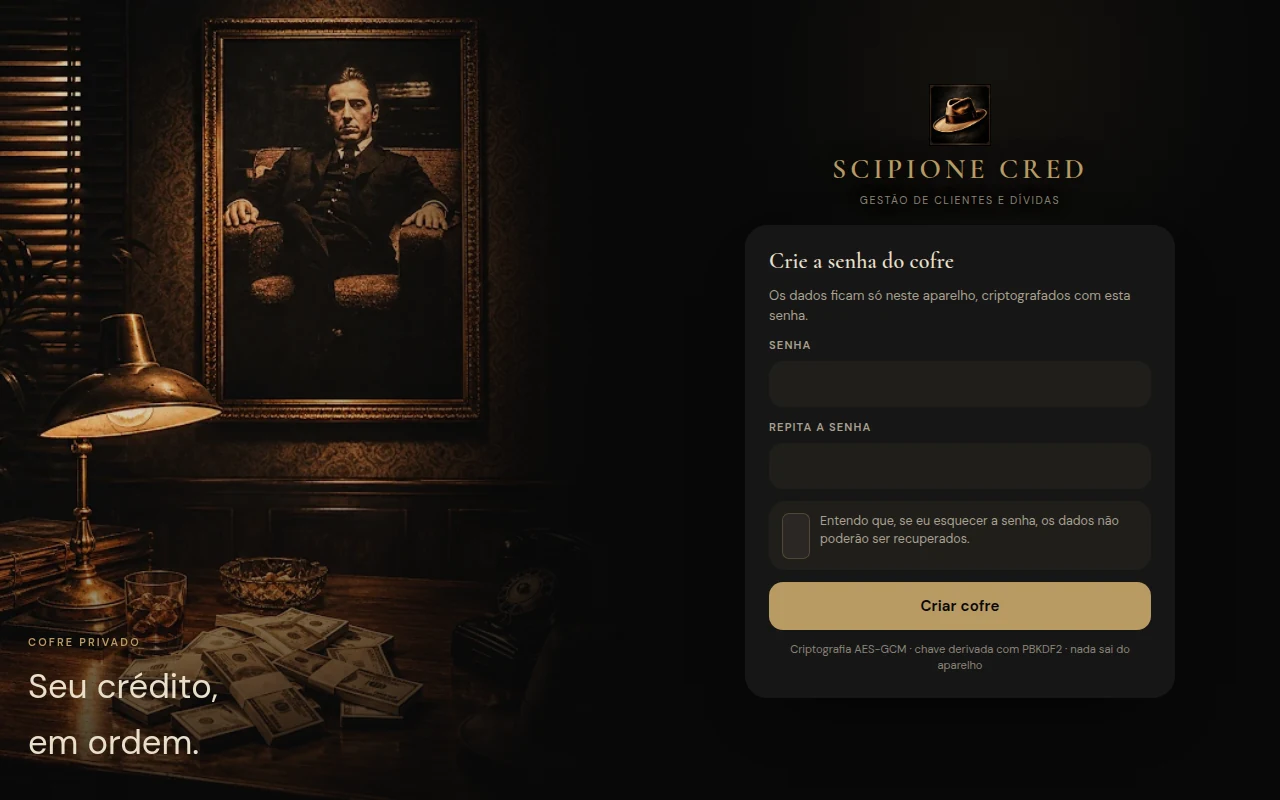
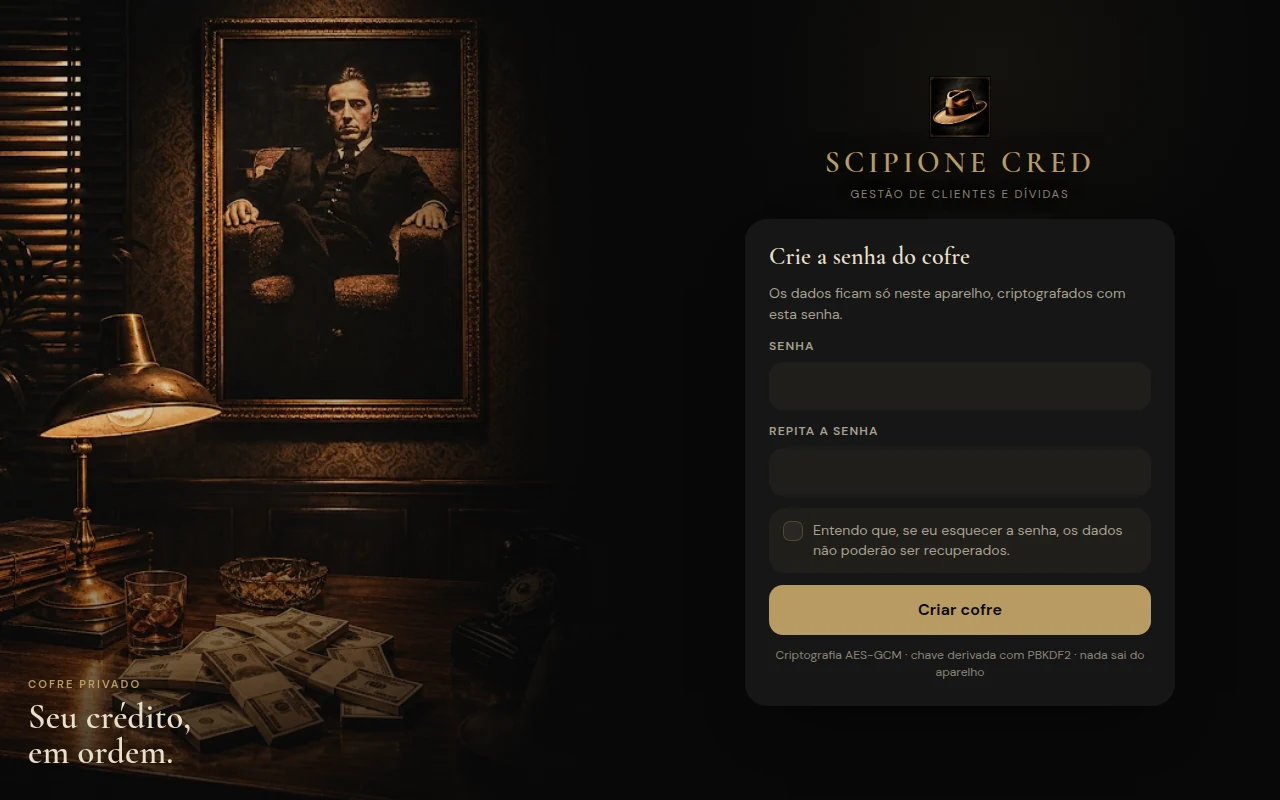
Increase login typography and fix checkbox proportions

diff --git a/css/ui.css b/css/ui.css
@@ -302,14 +302,15 @@ body:not(.shell) main>*{width:100%;max-width:420px}
 .brand h1{font-size:clamp(1.55rem, 1.1rem + 1.4vw, 1.85rem);letter-spacing:.15em;color:var(--gold);text-transform:uppercase;line-height:1.05}
 .brand .tag{font-size:.64rem;letter-spacing:.15em;text-transform:uppercase;color:var(--faint);margin:0;line-height:1.4}
 .auth{display:grid;gap:13px;padding:clamp(18px,3.5vw,26px)}
-.auth h2{font-size:1.35rem;margin:0;line-height:1.15}
-.auth>p.muted{font-size:.82rem;line-height:1.5;margin:0}
-.auth .primary{width:100%;min-height:48px;margin-top:0}
-.auth .foot{font-size:.7rem;color:var(--faint);text-align:center;line-height:1.4;margin:0}
+.auth h2{font-size:1.45rem;margin:0;line-height:1.15}
+.auth>p.muted{font-size:.88rem;line-height:1.5;margin:0}
+.auth .primary{width:100%;min-height:50px;margin-top:0;font-size:1rem}
+.auth .foot{font-size:.76rem;color:var(--faint);text-align:center;line-height:1.45;margin:0}
 .auth .field{gap:6px}
-.auth .field>label:not(.file-pick){font-size:.7rem;letter-spacing:.1em}
-.auth input{min-height:46px;padding:10px 14px;font-size:.95rem}
-.auth .check{padding:11px 13px;font-size:.78rem;line-height:1.45;gap:10px}
+.auth .field>label:not(.file-pick){font-size:.76rem;letter-spacing:.09em}
+.auth input:not([type=checkbox]){min-height:48px;padding:10px 14px;font-size:1rem}
+.auth .check{padding:12px 14px;font-size:.88rem;line-height:1.45;gap:10px}
+.auth .check input{width:20px;height:20px;min-height:0;padding:0;margin-top:1px;font-size:0}
 body:not(.shell) main>.card.auth{max-width:420px}
 /* ---------- Login com cena ---------- */
 body.authing{overflow:hidden}
@@ -326,13 +327,15 @@ body.authing main>*{width:auto;max-width:none}
 .auth-visual::after{content:"";position:absolute;inset:0;
   background:linear-gradient(180deg,rgba(8,8,8,.18) 0%,rgba(8,8,8,.38) 42%,rgba(8,8,8,.64) 76%,rgba(8,8,8,.78) 100%)}
 .auth-quote{position:absolute;z-index:2;left:22px;right:22px;bottom:18px;display:none}
+.quote-line{font-family:var(--font-serif);font-weight:600;line-height:1.02;letter-spacing:.005em;margin:0;color:var(--ivory)}
+.auth-quote .eyebrow{font-size:.7rem;letter-spacing:.18em;margin:0 0 6px}
 .auth-panel{position:relative;z-index:1;display:flex;flex-direction:column;align-items:center;justify-content:center;height:100%;min-height:0;
   padding:clamp(14px,3.2vh,28px) 16px;
   background:radial-gradient(78% 34% at 50% 18%,rgba(8,8,8,.96) 0%,rgba(8,8,8,.72) 48%,transparent 100%),linear-gradient(180deg,rgba(8,8,8,.04) 0%,rgba(8,8,8,.24) 30%,rgba(8,8,8,.62) 68%,rgba(8,8,8,.5) 100%),radial-gradient(65% 42% at 50% 18%,rgba(184,154,98,.08),transparent 70%)}
 .auth-panel .brand{gap:8px;margin:0 0 14px}
 .auth-panel .brand .mark{width:52px;height:52px}
-.auth-panel .brand h1{font-size:clamp(1.45rem, 1.2rem + 1vw, 1.7rem);text-shadow:0 2px 24px rgba(0,0,0,.9)}
-.auth-panel .brand .tag{font-size:.62rem;text-shadow:0 1px 14px rgba(0,0,0,.95)}
+.auth-panel .brand h1{font-size:clamp(1.6rem, 1.35rem + 1.1vw, 1.8rem);text-shadow:0 2px 24px rgba(0,0,0,.9)}
+.auth-panel .brand .tag{font-size:.7rem;text-shadow:0 1px 14px rgba(0,0,0,.95)}
 .auth-panel .card.auth{width:100%;max-width:420px;padding:20px;gap:13px;border-radius:22px;background:rgba(23,23,23,.96);
   box-shadow:0 28px 70px -42px #000}
 @media(max-width:360px){.brand h1{font-size:1.6rem;letter-spacing:.11em}.brandtext .word{font-size:.74rem;letter-spacing:.12em}header.top h1{font-size:1.4rem}header.top .util{gap:0}header.top .util .iconbtn{width:42px;min-width:42px;height:42px;min-height:42px}}
@@ -347,66 +350,66 @@ body.authing main>*{width:auto;max-width:none}
     background:linear-gradient(90deg,rgba(8,8,8,.95) 0%,rgba(8,8,8,0) 28%),radial-gradient(60% 45% at 55% 8%,rgba(184,154,98,.07),transparent 70%),var(--bg)}
   .auth-panel .brand{gap:9px;margin:0 0 16px}
   .auth-panel .brand .mark{width:62px;height:62px}
-  .auth-panel .brand h1{font-size:1.75rem;letter-spacing:.14em}
-  .auth-panel .brand .tag{font-size:.66rem}
+  .auth-panel .brand h1{font-size:1.85rem;letter-spacing:.14em}
+  .auth-panel .brand .tag{font-size:.72rem}
   .auth-panel .card.auth{max-width:430px;padding:24px;gap:12px}
-  .auth h2{font-size:1.38rem}
-  .auth>p.muted{font-size:.82rem}
+  .auth h2{font-size:1.5rem}
+  .auth>p.muted{font-size:.88rem}
 }
 @media(max-width:759px) and (max-height:700px){
   .auth-panel{padding:10px 12px}
   .auth-panel .brand{gap:5px;margin:0 0 8px}
   .auth-panel .brand .mark{width:40px;height:40px}
-  .auth-panel .brand h1{font-size:1.25rem;letter-spacing:.12em}
-  .auth-panel .brand .tag{font-size:.55rem;letter-spacing:.12em}
-  .auth-panel .card.auth{padding:14px;gap:9px;border-radius:18px}
-  .auth h2{font-size:1.15rem}
-  .auth>p.muted{font-size:.75rem;line-height:1.42}
+  .auth-panel .brand h1{font-size:1.4rem;letter-spacing:.12em}
+  .auth-panel .brand .tag{font-size:.68rem;letter-spacing:.12em}
+  .auth-panel .card.auth{padding:12px;gap:8px;border-radius:18px}
+  .auth h2{font-size:1.3rem}
+  .auth>p.muted{font-size:.82rem;line-height:1.45}
   .auth .field{gap:4px}
-  .auth .field>label:not(.file-pick){font-size:.64rem}
-  .auth input{min-height:40px;padding:8px 12px;font-size:.92rem}
-  .auth .check{padding:8px 10px;font-size:.72rem;line-height:1.35;gap:8px}
-  .auth .check input{width:18px;height:18px}
-  .auth .primary{min-height:44px;font-size:.9rem}
-  .auth .foot{font-size:.62rem;line-height:1.32}
+  .auth .field>label:not(.file-pick){font-size:.72rem}
+  .auth input:not([type=checkbox]){min-height:42px;padding:9px 12px;font-size:1rem}
+  .auth .check{padding:9px 11px;font-size:.82rem;line-height:1.42;gap:10px}
+  .auth .check input{width:20px;height:20px;min-height:0;padding:0;margin-top:1px;font-size:0}
+  .auth .primary{min-height:44px;font-size:.95rem}
+  .auth .foot{font-size:.7rem;line-height:1.4}
 }
 @media(min-width:760px) and (max-height:720px){
   .auth-panel{padding:18px 32px}
   .auth-panel .brand{gap:6px;margin:0 0 10px}
   .auth-panel .brand .mark{width:52px;height:52px}
-  .auth-panel .brand h1{font-size:1.5rem}
-  .auth-panel .brand .tag{font-size:.6rem}
+  .auth-panel .brand h1{font-size:1.6rem}
+  .auth-panel .brand .tag{font-size:.66rem}
   .auth-panel .card.auth{padding:18px;gap:9px}
-  .auth h2{font-size:1.2rem}
-  .auth input{min-height:42px}
-  .auth .check{padding:9px 11px;font-size:.76rem}
+  .auth h2{font-size:1.3rem}
+  .auth input:not([type=checkbox]){min-height:44px}
+  .auth .check{padding:10px 12px;font-size:.82rem}
   .auth .primary{min-height:44px}
-  .auth .foot{font-size:.64rem}
+  .auth .foot{font-size:.7rem}
   .auth-quote{bottom:22px}
 }
 @media(min-width:760px) and (max-height:600px){
   .auth-panel .brand .tag{display:none}
   .auth-panel .brand{gap:0;margin:0 0 8px}
   .auth-panel .card.auth{padding:16px;gap:8px}
-  .auth>p.muted{font-size:.76rem;line-height:1.4}
-  .auth .foot{font-size:.62rem;line-height:1.3}
+  .auth>p.muted{font-size:.82rem;line-height:1.4}
+  .auth .foot{font-size:.68rem;line-height:1.3}
 }
 @media(max-height:480px){
   .auth-panel{padding:8px 12px}
   .auth-panel .brand{gap:3px;margin:0 0 6px}
   .auth-panel .brand .mark{width:34px;height:34px}
-  .auth-panel .brand h1{font-size:1.05rem;letter-spacing:.1em}
+  .auth-panel .brand h1{font-size:1.12rem;letter-spacing:.1em}
   .auth-panel .brand .tag{display:none}
   .auth-panel .card.auth{padding:12px;gap:7px;border-radius:16px}
-  .auth h2{font-size:1.02rem}
+  .auth h2{font-size:1.1rem}
   .auth>p.muted{font-size:.7rem;line-height:1.3;margin:0}
   .auth .field{gap:2px}
-  .auth .field>label:not(.file-pick){font-size:.58rem}
-  .auth input{min-height:34px;padding:6px 10px;font-size:.86rem}
-  .auth .check{padding:6px 8px;font-size:.66rem;line-height:1.3;gap:6px}
-  .auth .check input{width:16px;height:16px}
-  .auth .primary{min-height:36px;font-size:.82rem}
-  .auth .foot{font-size:.58rem;line-height:1.25;margin:0}
+  .auth .field>label:not(.file-pick){font-size:.64rem}
+  .auth input:not([type=checkbox]){min-height:34px;padding:6px 10px;font-size:.92rem}
+  .auth .check{padding:7px 9px;font-size:.72rem;line-height:1.32;gap:8px}
+  .auth .check input{width:18px;height:18px;min-height:0;padding:0;margin-top:1px;font-size:0}
+  .auth .primary{min-height:38px;font-size:.88rem}
+  .auth .foot{font-size:.64rem;line-height:1.28;margin:0}
   .auth .error{font-size:.7rem;line-height:1.3}
 }
 @media(max-height:380px){

diff --git a/sw.js b/sw.js
@@ -1,5 +1,5 @@
 // Ao adicionar arquivos nas próximas etapas: inclua-os em FILES e incremente V.
-const V='sc-v39',FILES=['./','index.html','manifest.json','css/app.css','css/ui.css','src/ui/icons.js','src/ui/shell.js','src/ui/kit.js','src/main.js','src/pwa.js','vendor/fflate.min.js','src/export/lib.js','src/export/xlsx.js','src/export/backup-format.js','src/export/backup.js','src/export/reports.js','src/ui/tools.js','src/ui/settings.js','src/core/live.js','src/domain/due.js','src/services/search.js','src/services/settings.js','src/services/dashboard.js','src/ui/dashboard.js','src/ui/avatar.js','src/ui/clientlist.js','src/ui/debtspage.js','src/ui/debts.js','src/services/debts.js','src/domain/money.js','src/ui/clients.js','src/services/clients.js','src/services/records.js','src/domain/validators.js','src/files/process.js','src/db/idb.js','src/security/crypto.js','src/security/auth.js','assets/fonts/cormorant-garamond-latin.woff2','assets/fonts/dm-sans-latin.woff2','assets/img/hat.webp','assets/img/office.webp','assets/img/office-desk.webp','assets/icons/icon-192.png','assets/icons/icon-512.png','assets/icons/icon-maskable-512.png','assets/icons/apple-touch-icon.png'];
+const V='sc-v40',FILES=['./','index.html','manifest.json','css/app.css','css/ui.css','src/ui/icons.js','src/ui/shell.js','src/ui/kit.js','src/main.js','src/pwa.js','vendor/fflate.min.js','src/export/lib.js','src/export/xlsx.js','src/export/backup-format.js','src/export/backup.js','src/export/reports.js','src/ui/tools.js','src/ui/settings.js','src/core/live.js','src/domain/due.js','src/services/search.js','src/services/settings.js','src/services/dashboard.js','src/ui/dashboard.js','src/ui/avatar.js','src/ui/clientlist.js','src/ui/debtspage.js','src/ui/debts.js','src/services/debts.js','src/domain/money.js','src/ui/clients.js','src/services/clients.js','src/services/records.js','src/domain/validators.js','src/files/process.js','src/db/idb.js','src/security/crypto.js','src/security/auth.js','assets/fonts/cormorant-garamond-latin.woff2','assets/fonts/dm-sans-latin.woff2','assets/img/hat.webp','assets/img/office.webp','assets/img/office-desk.webp','assets/icons/icon-192.png','assets/icons/icon-512.png','assets/icons/icon-maskable-512.png','assets/icons/apple-touch-icon.png'];
 addEventListener('install',e=>e.waitUntil(caches.open(V).then(c=>c.addAll(FILES)).then(()=>skipWaiting())));
 addEventListener('activate',e=>e.waitUntil(caches.keys().then(k=>Promise.all(k.filter(x=>x!==V).map(x=>caches.delete(x)))).then(()=>clients.claim())));
 addEventListener('fetch',e=>{if(e.request.method!=='GET')return;e.respondWith(caches.match(e.request,{ignoreSearch:true}).then(r=>r||fetch(e.request).catch(()=>caches.match('index.html'))))});
